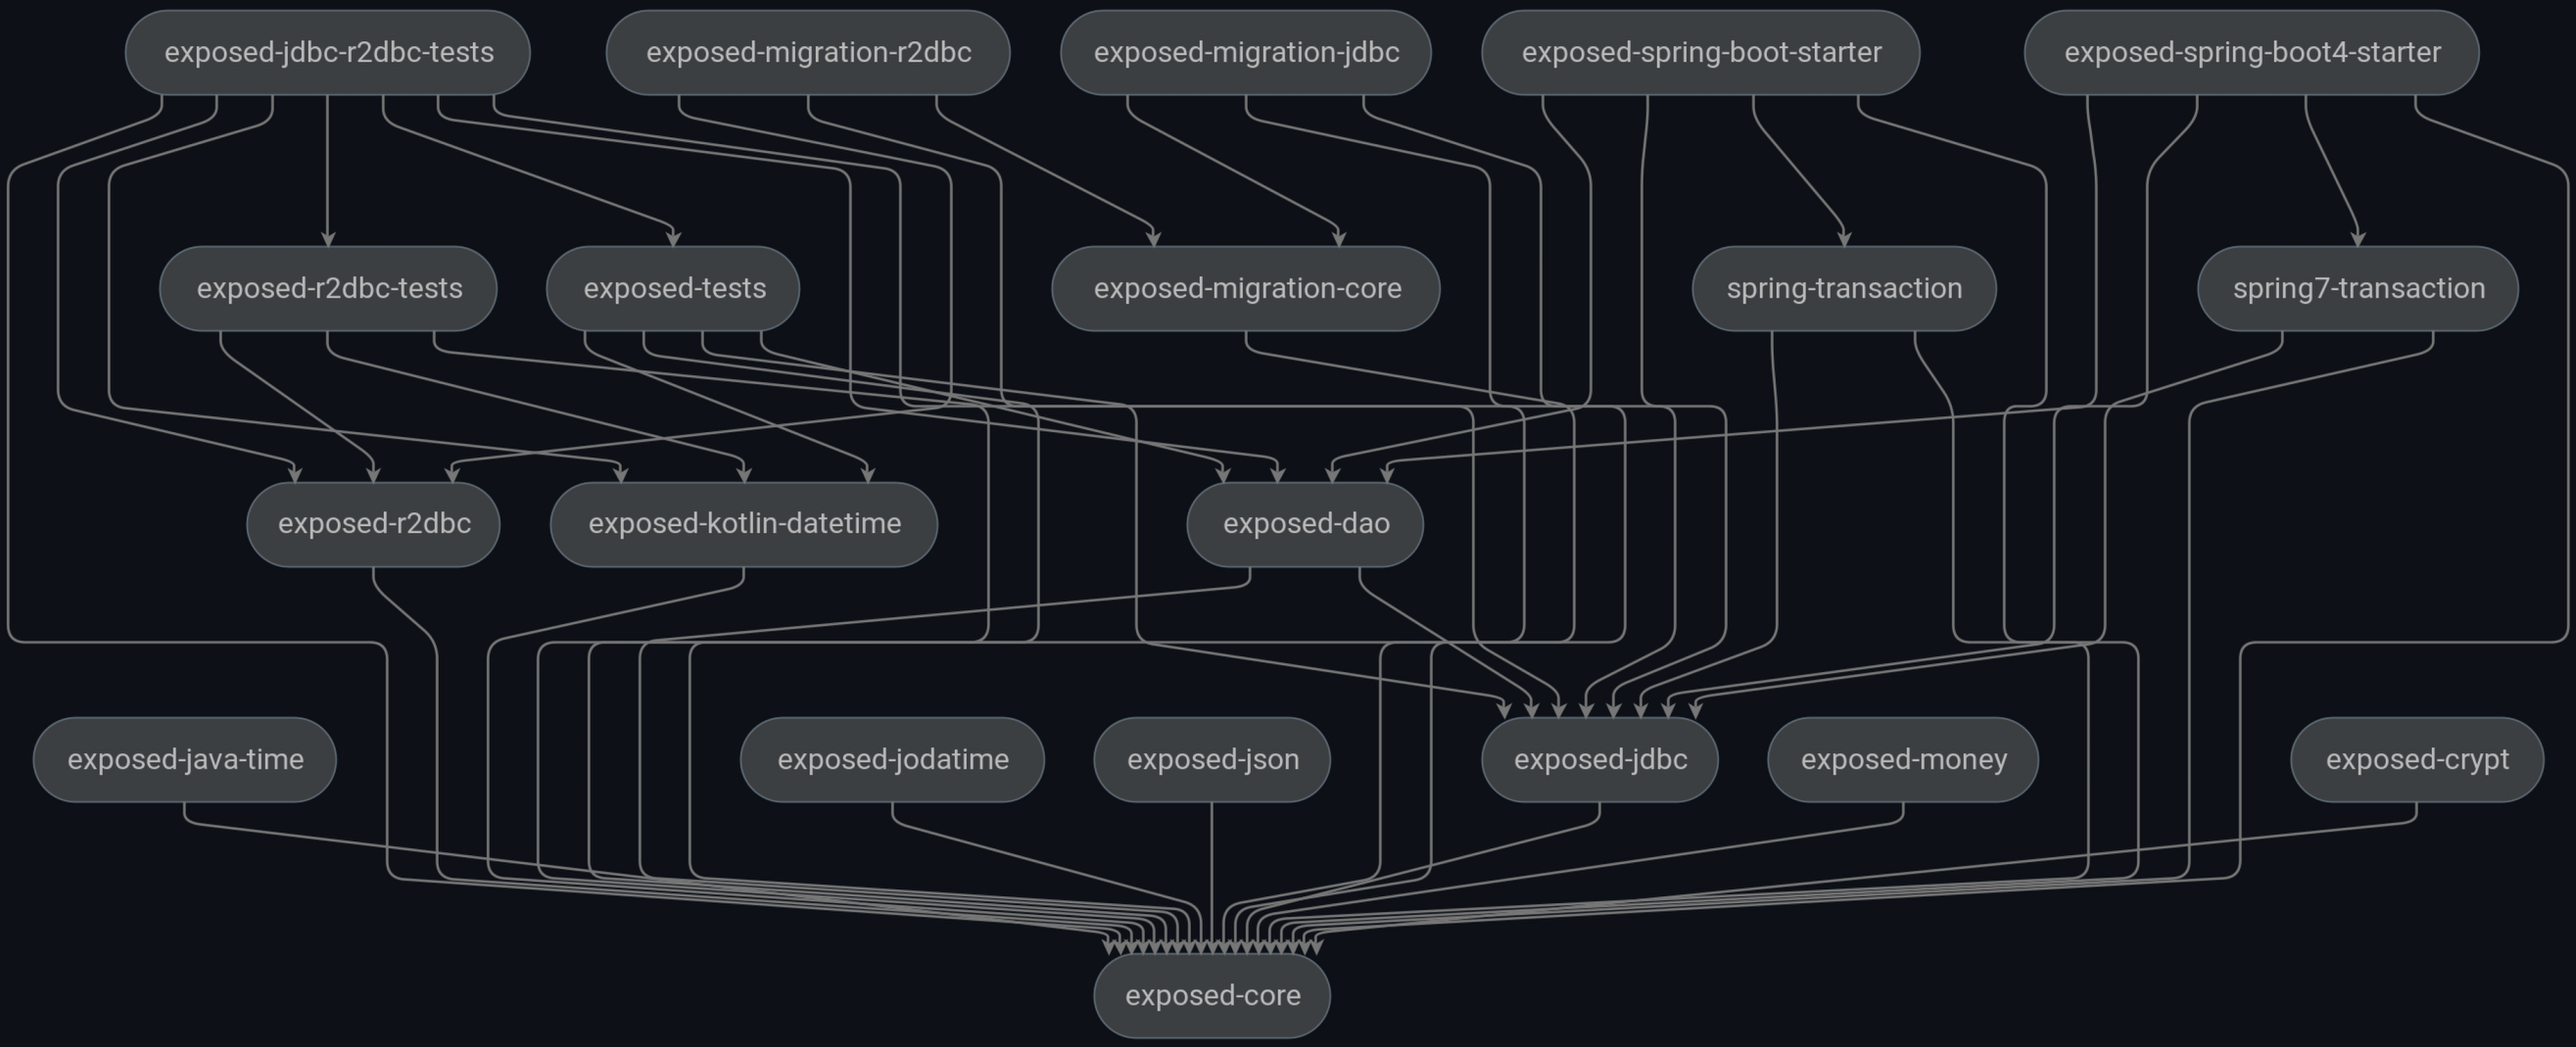
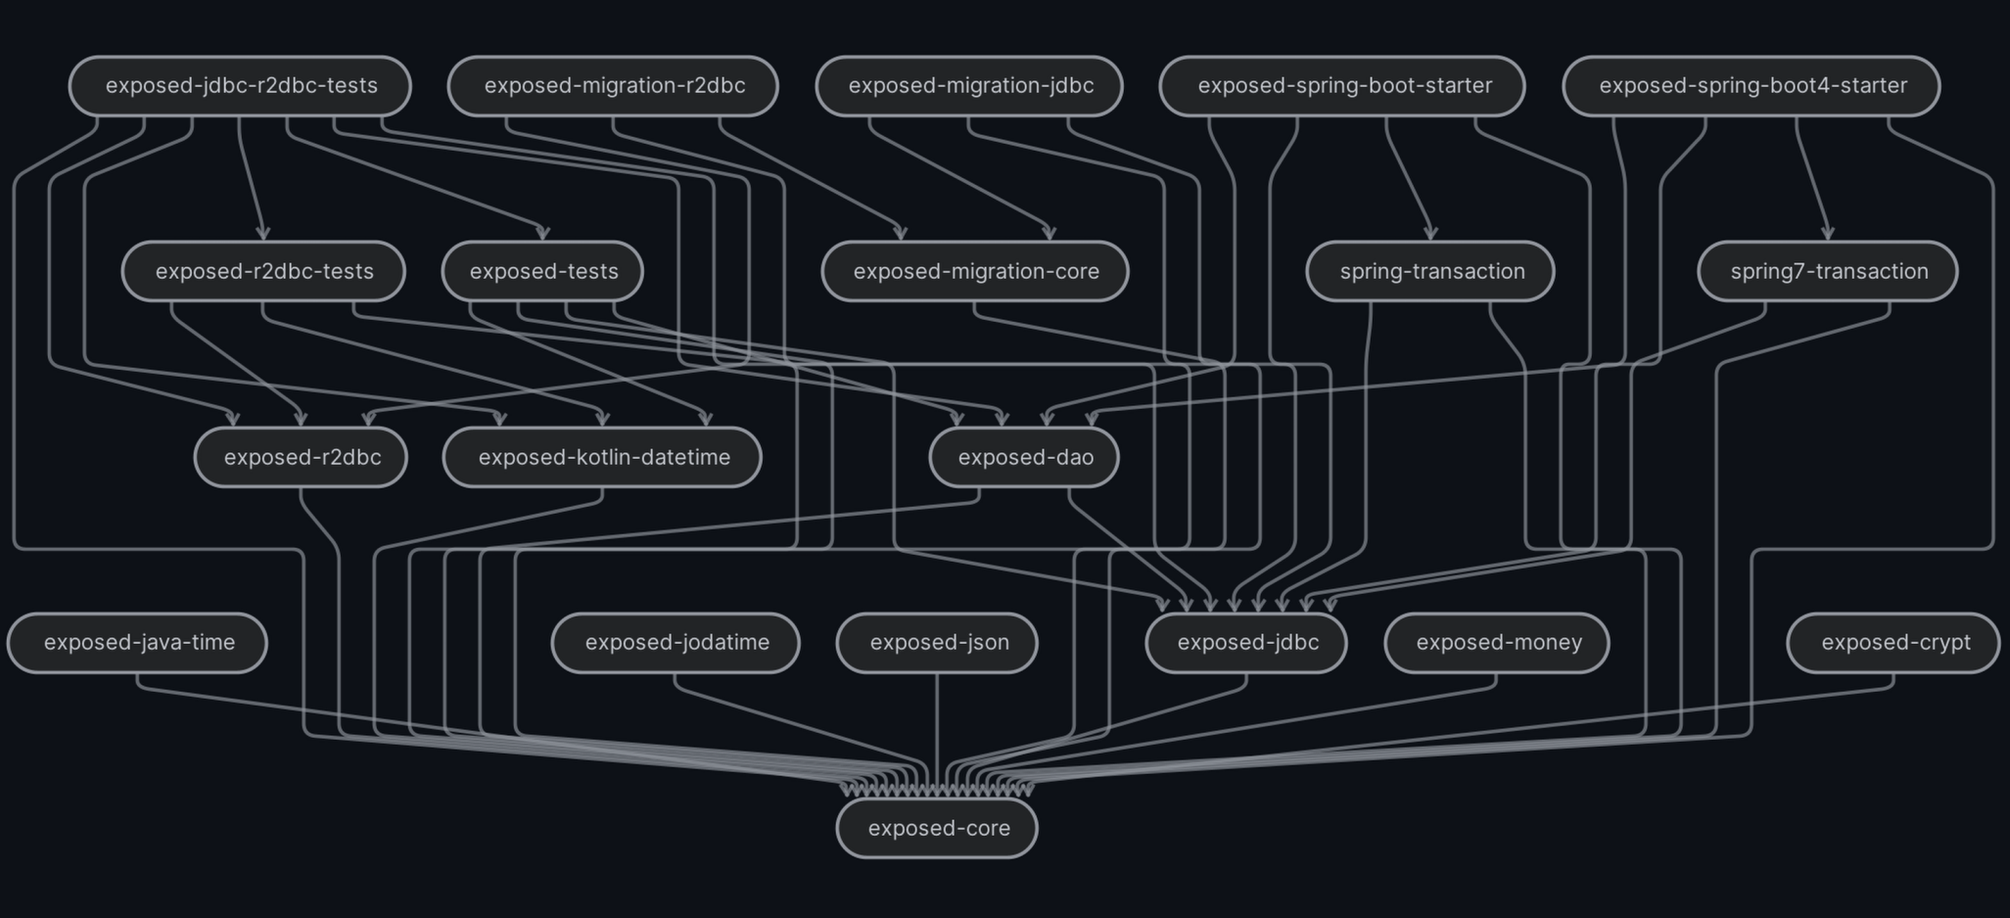
docs: add preview of the graph with new, pretty visuals

diff --git a/README.md b/README.md
@@ -11,11 +11,13 @@
 
 An IntelliJ plugin that shows Gradle's incremental compilation decisions on a module dependency graph - live,
 during the build.
-<br>
+![Build Visualizer graph](assets/graph_dynamic_(gradle-multiple-project).gif)
+Real-time build tracking via dependency graph for the `Allali84/gradle-multiple-project` repository. The build is 
+executed two times in a row, first compiling all modules (coloring them green), then confirming that they are all 
+up-to-date (making them blue).
 
 ![Build Visualizer graph](assets/graph_static_(exposed).png)
-
-Static dependency graph rendered for the `JetBrains/Exposed` repository.
+Static visualisation of dependencies for the `JetBrains/Exposed` repository.
 
 # The problem
 In large multi-module codebases, build slowdowns are a common issue, and they are hidden behind text logs that are 
@@ -36,7 +38,7 @@ features:
 
 - [x] Basic graph visualization of modules and dependencies
 - [x] Graph refresh on Gradle project reload / sync
-- [ ] Graph updates during the build to reflect module states (compiling / done / failed)
+- [x] Graph updates during the build to reflect module states (compiling / done / failed)
 - [ ] PSI-based ABI heuristic distinguishing public signature changes from internal-only edits
 - [ ] ABI-incompatibility warning banner when a changelist contains public API changes
 - [ ] "Are you sure?" dialogue window when launching a build with an ABI-incompatible changelist
